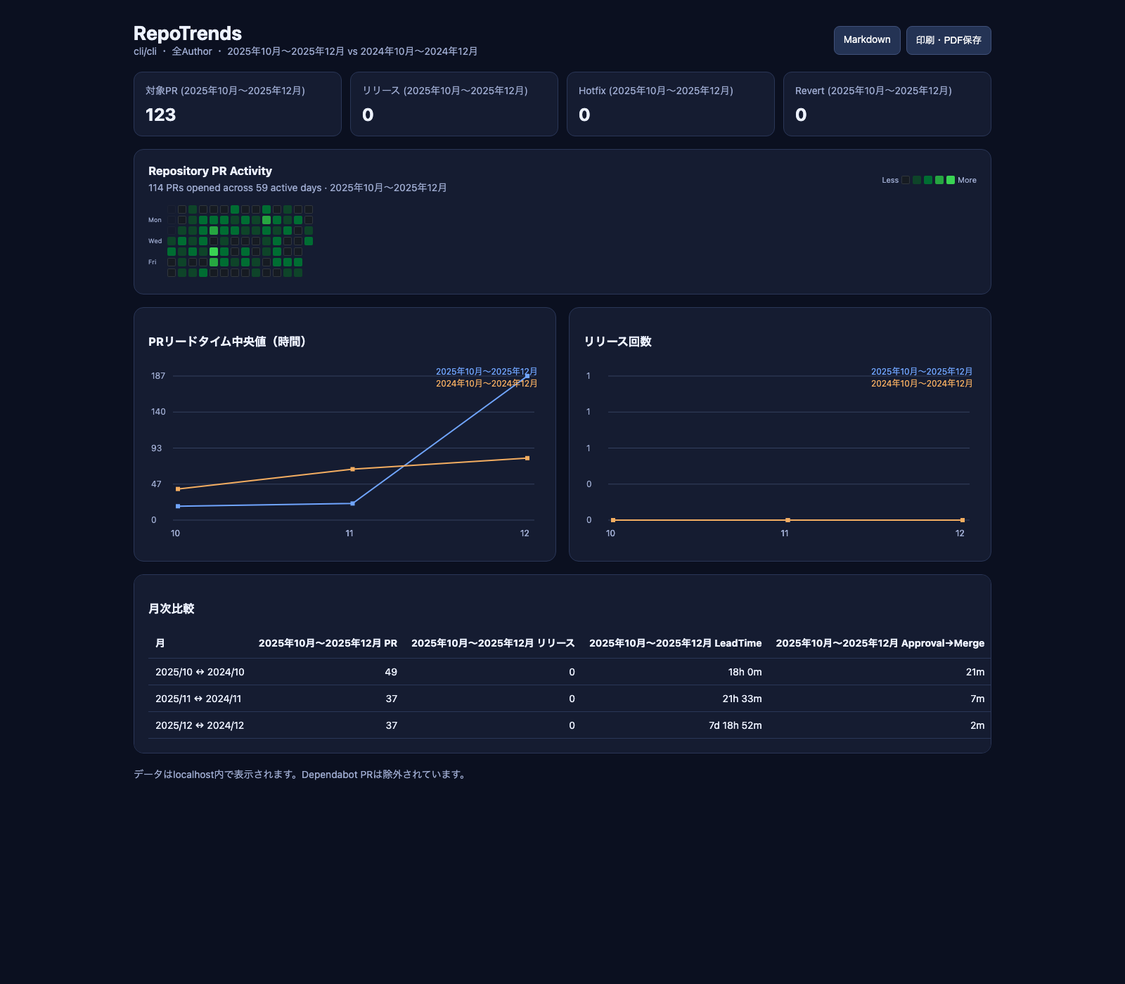
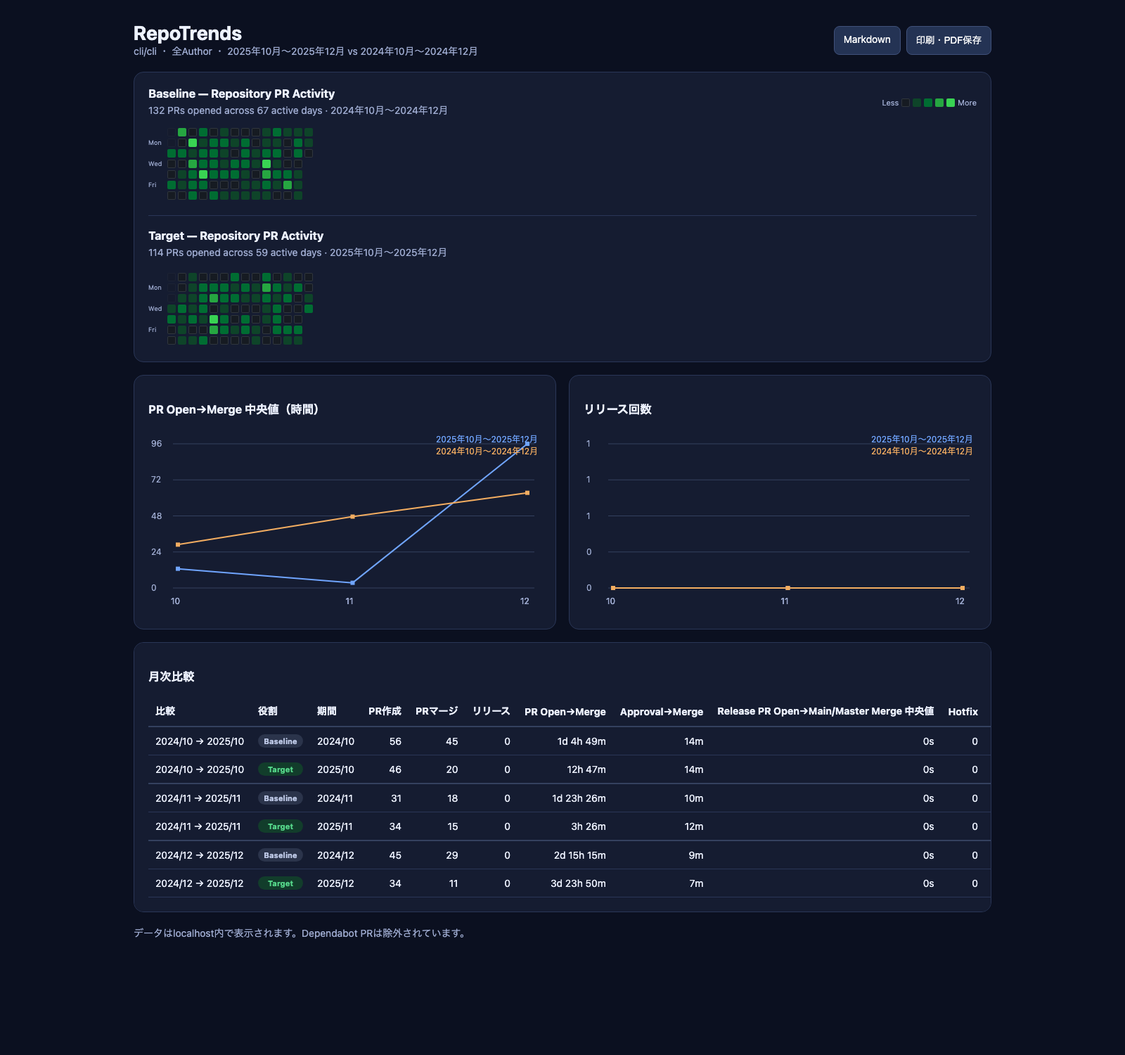
feat: clarify dashboard comparisons and lead-time metrics

diff --git a/cmd/serve.go b/cmd/serve.go
@@ -7,6 +7,7 @@ import (
 	"net/http"
 	"os/exec"
 	"runtime"
+	"slices"
 	"strconv"
 	"strings"
 	"sync"
@@ -40,6 +41,7 @@ type dashboardPlan struct {
 
 type dashboardMetric struct {
 	PRs              int            `json:"prs"`
+	MergedPRs        int            `json:"mergedPrs"`
 	Releases         int            `json:"releases"`
 	LeadTime         string         `json:"leadTime"`
 	LeadTimeHours    float64        `json:"leadTimeHours"`
@@ -67,6 +69,7 @@ type dashboardReport struct {
 	ComparisonYear  int            `json:"comparisonYear,omitempty"`
 	PrimaryLabel    string         `json:"primaryLabel"`
 	ComparisonLabel string         `json:"comparisonLabel,omitempty"`
+	CombineActivity bool           `json:"combineActivity,omitempty"`
 	GeneratedAt     string         `json:"generatedAt"`
 	Rows            []dashboardRow `json:"rows"`
 }
@@ -617,22 +620,79 @@ func collectDashboard(state *dashboardState, targetRepo string, year, comparison
 			state.advance()
 		}
 	}
+	report.CombineActivity = shouldCombineActivityMonths(report.Rows)
 	state.complete(report)
+}
+
+func shouldCombineActivityMonths(rows []dashboardRow) bool {
+	if len(rows) == 0 || rows[0].ComparisonLabel == "" {
+		return false
+	}
+	seen := make(map[int]bool)
+	year := 0
+	for _, row := range rows {
+		for _, label := range []string{row.Label, row.ComparisonLabel} {
+			parts := strings.Split(label, "/")
+			if len(parts) != 2 {
+				return false
+			}
+			labelYear, yearErr := strconv.Atoi(parts[0])
+			labelMonth, monthErr := strconv.Atoi(parts[1])
+			if yearErr != nil || monthErr != nil || labelMonth < 1 || labelMonth > 12 {
+				return false
+			}
+			if year == 0 {
+				year = labelYear
+			} else if labelYear != year {
+				return false
+			}
+			seen[labelYear*12+labelMonth-1] = true
+		}
+	}
+	months := make([]int, 0, len(seen))
+	for month := range seen {
+		months = append(months, month)
+	}
+	slices.Sort(months)
+	for index := 1; index < len(months); index++ {
+		if months[index] != months[index-1]+1 {
+			return false
+		}
+	}
+	return true
 }
 
 func fetchDashboardMetric(targetRepo string, selection dashboardMonthSelection) (dashboardMetric, error) {
 	start := selection.Date
 	end := start.AddDate(0, 1, 0).Add(-time.Nanosecond)
 	if selection.PartialDay > 0 {
-		end = comparableMonthEnd(start.Year(), start.Month(), selection.PartialDay)
+		day := comparableMonthEnd(start.Year(), start.Month(), selection.PartialDay)
+		end = day.Add(24*time.Hour - time.Nanosecond)
 	}
 	prs, err := github.FetchPullRequests(targetRepo, start.Format("2006-01-02"), end.Format("2006-01-02"), author, label, true)
 	if err != nil {
 		return dashboardMetric{}, err
 	}
-	metric := metricFromStats(stats.CalculateStats(CalculateLeadTimes(prs)))
-	metric.DailyPRs = dailyPRCounts(prs, start, end)
+	openedPRs, mergedPRs := dashboardPeriodPRs(prs, start, end)
+	metric := metricFromStats(stats.CalculateStats(CalculateLeadTimes(mergedPRs)))
+	metric.PRs = len(openedPRs)
+	metric.MergedPRs = len(mergedPRs)
+	metric.DailyPRs = dailyPRCounts(openedPRs, start, end)
 	return metric, nil
+}
+
+func dashboardPeriodPRs(prs []github.PullRequest, start, end time.Time) ([]github.PullRequest, []github.PullRequest) {
+	opened := make([]github.PullRequest, 0, len(prs))
+	merged := make([]github.PullRequest, 0, len(prs))
+	for _, pr := range prs {
+		if !pr.CreatedAt.Before(start) && !pr.CreatedAt.After(end) {
+			opened = append(opened, pr)
+		}
+		if pr.Merged && !pr.MergedAt.IsZero() && !pr.MergedAt.Before(start) && !pr.MergedAt.After(end) {
+			merged = append(merged, pr)
+		}
+	}
+	return opened, merged
 }
 
 func dailyPRCounts(prs []github.PullRequest, start, end time.Time) map[string]int {
@@ -697,30 +757,37 @@ func markdownReport(report *dashboardReport) string {
 		fmt.Fprintf(&b, "- Comparison period: %s\n", report.ComparisonLabel)
 	}
 	fmt.Fprintf(&b, "- Generated: %s\n- Dependabot PRs: excluded\n\n", report.GeneratedAt)
-	fmt.Fprintf(&b, "| 月 | %s PR | %s リリース | %s Lead Time | %s Approval→Merge | %s Release→Main | %s Hotfix | %s Revert |", report.PrimaryLabel, report.PrimaryLabel, report.PrimaryLabel, report.PrimaryLabel, report.PrimaryLabel, report.PrimaryLabel, report.PrimaryLabel)
-	if report.ComparisonLabel != "" {
-		fmt.Fprintf(&b, " %s PR | %s リリース | %s Lead Time | %s Approval→Merge | %s Release→Main | %s Hotfix | %s Revert |", report.ComparisonLabel, report.ComparisonLabel, report.ComparisonLabel, report.ComparisonLabel, report.ComparisonLabel, report.ComparisonLabel, report.ComparisonLabel)
-	}
-	b.WriteString("\n|---|" + strings.Repeat("---:|", 7))
-	if report.ComparisonLabel != "" {
-		b.WriteString(strings.Repeat("---:|", 7))
-	}
-	b.WriteString("\n")
+	b.WriteString("| Comparison | Role | Period | PRs Opened | PRs Merged | Releases | PR Open→Merge | Approval→Merge | Median Release PR Open→Main/Master Merge | Hotfix | Revert |\n")
+	b.WriteString("|---|---|---|---:|---:|---:|---:|---:|---:|---:|---:|\n")
 	for _, row := range report.Rows {
-		p := row.Primary
-		rowLabel := row.Label
-		if row.ComparisonLabel != "" {
-			rowLabel += " ↔ " + row.ComparisonLabel
+		for _, entry := range orderedDashboardTableEntries(row) {
+			metric := entry.Metric
+			fmt.Fprintf(&b, "| %s | %s | %s | %d | %d | %d | %s | %s | %s | %d | %d |\n",
+				entry.Comparison, entry.Role, entry.Period, metric.PRs, metric.MergedPRs, metric.Releases, metric.LeadTime,
+				metric.ApprovalToMerge, metric.ReleaseToMain, metric.Hotfixes, metric.Reverts)
 		}
-		fmt.Fprintf(&b, "| %s | %d | %d | %s | %s | %s | %d | %d |", rowLabel, p.PRs, p.Releases, p.LeadTime, p.ApprovalToMerge, p.ReleaseToMain, p.Hotfixes, p.Reverts)
-		if row.Comparison != nil {
-			c := row.Comparison
-			fmt.Fprintf(&b, " %d | %d | %s | %s | %s | %d | %d |", c.PRs, c.Releases, c.LeadTime, c.ApprovalToMerge, c.ReleaseToMain, c.Hotfixes, c.Reverts)
-		}
-		b.WriteString("\n")
 	}
-	b.WriteString("\n> Release→Mainは `release/*` から `main/master` へのPR作成からマージまでの中央値です。\n")
+	b.WriteString("\n> PR Open→Merge is the median `mergedAt - createdAt` for PRs merged in the period.\n")
+	b.WriteString("> Median Release PR Open→Main/Master Merge applies the same calculation only to `release/* → main/master` PRs.\n")
 	return b.String()
+}
+
+type dashboardTableEntry struct {
+	Comparison string
+	Role       string
+	Period     string
+	Metric     dashboardMetric
+}
+
+func orderedDashboardTableEntries(row dashboardRow) []dashboardTableEntry {
+	if row.Comparison == nil || row.ComparisonLabel == "" {
+		return []dashboardTableEntry{{Comparison: row.Label, Role: "Current", Period: row.Label, Metric: row.Primary}}
+	}
+	pair := row.ComparisonLabel + " → " + row.Label
+	return []dashboardTableEntry{
+		{Comparison: pair, Role: "Baseline", Period: row.ComparisonLabel, Metric: *row.Comparison},
+		{Comparison: pair, Role: "Target", Period: row.Label, Metric: row.Primary},
+	}
 }
 
 func openBrowser(url string) {
@@ -739,9 +806,14 @@ func openBrowser(url string) {
 
 const dashboardHTML = `<!doctype html><html lang="ja"><head><meta charset="utf-8"><meta name="viewport" content="width=device-width,initial-scale=1"><title>RepoTrends</title><style>
 .heatmap .day,.legend .day{background:#161b22;box-shadow:inset 0 0 0 1px #30363d}.heatmap .day[data-level="1"],.legend .day[data-level="1"]{background:#0e4429;box-shadow:none}.heatmap .day[data-level="2"],.legend .day[data-level="2"]{background:#006d32;box-shadow:none}.heatmap .day[data-level="3"],.legend .day[data-level="3"]{background:#26a641;box-shadow:none}.heatmap .day[data-level="4"],.legend .day[data-level="4"]{background:#39d353;box-shadow:none}
+table th:nth-child(-n+3),table td:nth-child(-n+3){text-align:left}tr.pair-start td{border-top:2px solid #34415f}.position{display:inline-block;min-width:64px;border-radius:999px;padding:3px 8px;text-align:center;font-size:11px;font-weight:700}.position.baseline{background:#2b344b;color:#bdc8e6}.position.target{background:#123d2b;color:#56d88b}.position.current{background:#243354;color:#9fc1ff}
+.activity-extra{border-top:1px solid #2a3657;margin-top:18px;padding-top:18px}.activity-extra .activity-head{margin-bottom:4px}
 :root{color-scheme:dark;--bg:#0b1020;--panel:#151c31;--line:#2a3657;--text:#edf2ff;--muted:#9eabd0;--a:#70a5ff;--b:#f3ad61}*{box-sizing:border-box}body{margin:0;background:var(--bg);color:var(--text);font:14px system-ui,sans-serif}.wrap{max-width:1280px;margin:auto;padding:30px}header{display:flex;align-items:center;justify-content:space-between;gap:16px}h1{font-size:28px;margin:0}.sub,.muted,footer{color:var(--muted)}.actions{display:flex;gap:8px}button,.button{background:#243354;color:white;border:1px solid #40517a;border-radius:8px;padding:9px 13px;text-decoration:none;cursor:pointer}.panel{background:var(--panel);border:1px solid var(--line);border-radius:14px;padding:20px;margin-top:18px}.progress-head,.activity-head{display:flex;justify-content:space-between;gap:16px;align-items:center}.track{height:16px;background:#27304a;border-radius:10px;overflow:hidden;margin:12px 0}.bar{height:100%;width:0;background:linear-gradient(90deg,var(--a),#7ce3d0);transition:width .35s}.cards{display:grid;grid-template-columns:repeat(auto-fit,minmax(170px,1fr));gap:12px;margin-top:18px}.card{background:var(--panel);border:1px solid var(--line);border-radius:12px;padding:16px}.card b{display:block;font-size:25px;margin-top:8px}.activity-scroll{overflow-x:auto;padding:14px 0 4px}.activity-layout{display:flex;gap:8px;min-width:max-content}.weekdays{display:grid;grid-template-rows:repeat(7,12px);gap:3px;color:var(--muted);font-size:9px;line-height:12px}.heatmap{display:grid;grid-template-rows:repeat(7,12px);grid-auto-flow:column;grid-auto-columns:12px;gap:3px}.day{width:12px;height:12px;border-radius:2px;background:#222b40}.day.outside{opacity:.25}.day[data-level="1"]{background:#0e4429}.day[data-level="2"]{background:#006d32}.day[data-level="3"]{background:#26a641}.day[data-level="4"]{background:#39d353}.legend{display:flex;align-items:center;gap:4px;color:var(--muted);font-size:11px}.legend .day{display:inline-block}.charts{display:grid;grid-template-columns:1fr 1fr;gap:18px}canvas{width:100%;height:260px}.table-wrap{overflow:auto}table{border-collapse:collapse;width:100%;white-space:nowrap}th,td{border-bottom:1px solid var(--line);padding:10px;text-align:right}th:first-child,td:first-child{text-align:left}#dashboard{display:none}.error{color:#ff8e9d}footer{margin:20px 0}@media(max-width:800px){.charts{grid-template-columns:1fr}header,.activity-head{align-items:flex-start;flex-direction:column}}@media print{body{background:white;color:#111}.wrap{max-width:none;padding:0}.panel,.card{background:white;border-color:#bbb}.actions,#progress{display:none!important}.muted,.sub,footer{color:#555}}
 </style></head><body><div class="wrap"><header><div><h1>RepoTrends</h1><div class="sub" id="subtitle">GitHub analytics dashboard</div></div><div class="actions" id="actions" style="display:none"><a class="button" href="/report.md">Markdown</a><button onclick="window.print()">印刷・PDF保存</button></div></header><section class="panel" id="progress"><div class="progress-head"><b id="stage">開始しています</b><span id="percent">0%</span></div><div class="track"><div class="bar" id="bar"></div></div><div class="muted"><span id="count">0 / 0</span> ・経過 <span id="elapsed">0s</span></div><div class="error" id="error"></div></section><main id="dashboard"><section class="cards" id="cards"></section><section class="panel"><div class="activity-head"><div><h3 id="activityTitle" style="margin:0 0 5px">PR Activity</h3><span class="muted" id="activitySummary"></span></div><div class="legend"><span>Less</span><i class="day"></i><i class="day" data-level="1"></i><i class="day" data-level="2"></i><i class="day" data-level="3"></i><i class="day" data-level="4"></i><span>More</span></div></div><div class="activity-scroll"><div class="activity-layout"><div class="weekdays"><span></span><span>Mon</span><span></span><span>Wed</span><span></span><span>Fri</span><span></span></div><div class="heatmap" id="heatmap"></div></div></div></section><section class="charts"><div class="panel"><h3>PRリードタイム中央値（時間）</h3><canvas id="leadChart"></canvas></div><div class="panel"><h3>リリース回数</h3><canvas id="releaseChart"></canvas></div></section><section class="panel table-wrap"><h3>月次比較</h3><table id="table"></table></section></main><footer>データはlocalhost内で表示されます。Dependabot PRは除外されています。</footer></div><script>
-const $=id=>document.getElementById(id);let rendered=false;async function poll(){try{const s=await fetch('/api/status',{cache:'no-store'}).then(r=>r.json()),pct=s.total?Math.round(s.completed/s.total*100):0;$('bar').style.width=pct+'%';$('percent').textContent=pct+'%';$('stage').textContent=s.stage;$('count').textContent=s.completed+' / '+s.total;$('elapsed').textContent=s.elapsed;if(s.error)$('error').textContent=s.error;if(s.status==='complete'&&!rendered){rendered=true;render(s.report)}if(s.status==='running')setTimeout(poll,700)}catch(e){$('error').textContent=e;setTimeout(poll,1500)}}poll();function total(rows,key,side='primary'){return rows.reduce((n,r)=>n+(r[side]?.[key]||0),0)}function render(r){$('progress').style.display='none';$('dashboard').style.display='block';$('actions').style.display='flex';$('subtitle').textContent=r.repository+(r.author?' ・ @'+r.author:' ・ 全Author')+' ・ '+r.primaryLabel+(r.comparisonLabel?' vs '+r.comparisonLabel:'');const cards=[['対象PR',total(r.rows,'prs')],['リリース',total(r.rows,'releases')],['Hotfix',total(r.rows,'hotfixes')],['Revert',total(r.rows,'reverts')]];$('cards').innerHTML=cards.map(x=>'<div class="card"><span class="muted">'+x[0]+' ('+r.primaryLabel+')</span><b>'+x[1]+'</b></div>').join('');heatmap(r);draw('leadChart',r,'leadTimeHours');draw('releaseChart',r,'releases');table(r)}
-function heatmap(r){const daily={};for(const row of r.rows)Object.assign(daily,row.primary.dailyPRs||{});const dates=Object.keys(daily),totalPRs=dates.reduce((n,d)=>n+daily[d],0),max=Math.max(...Object.values(daily),1);$('activityTitle').textContent=r.author?'PR Contributions — @'+r.author:'Repository PR Activity';$('activitySummary').textContent=totalPRs+' PRs opened across '+dates.length+' active days · '+r.primaryLabel;const first=r.rows[0].label.split('/').map(Number),last=r.rows[r.rows.length-1].label.split('/').map(Number),start=new Date(Date.UTC(first[0],first[1]-1,1)),end=new Date(Date.UTC(last[0],last[1],0)),today=new Date(),currentEnd=new Date(Date.UTC(today.getFullYear(),today.getMonth(),today.getDate()));if(end>currentEnd)end.setTime(currentEnd.getTime());const cursor=new Date(start);cursor.setUTCDate(cursor.getUTCDate()-cursor.getUTCDay());const grid=$('heatmap');grid.innerHTML='';for(;cursor<=end;cursor.setUTCDate(cursor.getUTCDate()+1)){const key=cursor.toISOString().slice(0,10),count=daily[key]||0,cell=document.createElement('i');cell.className='day'+(cursor<start?' outside':'');const level=count?Math.max(1,Math.ceil(count/max*4)):0;cell.dataset.level=level;cell.title=key+': '+count+' PR'+(count===1?'':'s');grid.appendChild(cell)}}
-function draw(id,r,key){const c=$(id),d=devicePixelRatio||1,w=c.clientWidth,h=260;c.width=w*d;c.height=h*d;const x=c.getContext('2d');x.scale(d,d);const values=r.rows.flatMap(v=>[v.primary[key],v.comparison?.[key]||0]),max=Math.max(...values,1);x.strokeStyle='#34415f';x.fillStyle='#9eabd0';x.font='12px system-ui';for(let i=0;i<5;i++){const y=20+(h-55)*i/4;x.beginPath();x.moveTo(35,y);x.lineTo(w-10,y);x.stroke();x.fillText(Math.round(max*(4-i)/4),4,y+4)}line(r.rows.map(v=>v.primary[key]),'#70a5ff',r.primaryLabel,18);if(r.comparisonLabel)line(r.rows.map(v=>v.comparison?.[key]||0),'#f3ad61',r.comparisonLabel,35);function line(a,color,label,ly){x.strokeStyle=color;x.lineWidth=2;x.beginPath();a.forEach((v,i)=>{const px=42+(w-62)*(i/Math.max(a.length-1,1)),py=20+(h-55)*(1-v/max);i?x.lineTo(px,py):x.moveTo(px,py);x.fillStyle=color;x.fillRect(px-3,py-3,6,6);x.fillStyle='#9eabd0';x.fillText(r.rows[i].label.slice(5),px-10,h-12)});x.stroke();x.fillStyle=color;x.fillText(label,w-150,ly)}}function table(r){let h='<thead><tr><th>月</th>'+head(r.primaryLabel);if(r.comparisonLabel)h+=head(r.comparisonLabel);h+='</tr></thead><tbody>';for(const row of r.rows){const label=row.comparisonLabel?row.label+' ↔ '+row.comparisonLabel:row.label;h+='<tr><td>'+label+'</td>'+cells(row.primary);if(row.comparison)h+=cells(row.comparison);h+='</tr>'}h+='</tbody>';$('table').innerHTML=h}function head(y){return '<th>'+y+' PR</th><th>'+y+' リリース</th><th>'+y+' LeadTime</th><th>'+y+' Approval→Merge</th><th>'+y+' Release→Main</th><th>'+y+' Hotfix</th><th>'+y+' Revert</th>'}function cells(v){return '<td>'+v.prs+'</td><td>'+v.releases+'</td><td>'+v.leadTime+'</td><td>'+v.approvalToMerge+'</td><td>'+v.releaseToMain+'</td><td>'+v.hotfixes+'</td><td>'+v.reverts+'</td>'}
+const $=id=>document.getElementById(id);let rendered=false;async function poll(){try{const s=await fetch('/api/status',{cache:'no-store'}).then(r=>r.json()),pct=s.total?Math.round(s.completed/s.total*100):0;$('bar').style.width=pct+'%';$('percent').textContent=pct+'%';$('stage').textContent=s.stage;$('count').textContent=s.completed+' / '+s.total;$('elapsed').textContent=s.elapsed;if(s.error)$('error').textContent=s.error;if(s.status==='complete'&&!rendered){rendered=true;render(s.report)}if(s.status==='running')setTimeout(poll,700)}catch(e){$('error').textContent=e;setTimeout(poll,1500)}}poll();function total(rows,key,side='primary'){return rows.reduce((n,r)=>n+(r[side]?.[key]||0),0)}function render(r){$('progress').style.display='none';$('dashboard').style.display='block';$('actions').style.display='flex';$('subtitle').textContent=r.repository+(r.author?' ・ @'+r.author:' ・ 全Author')+' ・ '+r.primaryLabel+(r.comparisonLabel?' vs '+r.comparisonLabel:'');const cards=[['PRs Opened',total(r.rows,'prs')],['PRs Merged',total(r.rows,'mergedPrs')],['Releases',total(r.rows,'releases')],['Hotfix',total(r.rows,'hotfixes')],['Revert',total(r.rows,'reverts')]];$('cards').style.display=r.comparisonLabel?'none':'grid';$('cards').innerHTML=r.comparisonLabel?'':cards.map(x=>'<div class="card"><span class="muted">'+x[0]+' ('+r.primaryLabel+')</span><b>'+x[1]+'</b></div>').join('');document.querySelector('.charts .panel h3').textContent='PR Open→Merge 中央値（時間）';renderHeatmaps(r);draw('leadChart',r,'leadTimeHours');draw('releaseChart',r,'releases');table(r)}
+function renderHeatmaps(r){const baseTitle=r.author?'PR Contributions — @'+r.author:'Repository PR Activity',primary=activitySeries(r.rows,'primary',r.primaryLabel),comparison=r.comparisonLabel?activitySeries(r.rows,'comparison',r.comparisonLabel):null,labels=r.rows.flatMap(row=>row.comparisonLabel?[row.label,row.comparisonLabel]:[row.label]),indexes=[...new Set(labels.map(monthIndex))].sort((a,b)=>a-b);let series;if(!comparison){series=[{...primary,title:baseTitle}]}else if(r.combineActivity){const first=monthLabel(indexes[0]),last=monthLabel(indexes[indexes.length-1]);series=[{daily:Object.assign({},comparison.daily,primary.daily),first,last,label:first+' → '+last,title:'Continuous — '+baseTitle}]}else{series=[{...comparison,title:'Baseline — '+baseTitle},{...primary,title:'Target — '+baseTitle}]}document.querySelectorAll('.activity-extra').forEach(node=>node.remove());series.forEach((item,index)=>{if(index===0){renderActivityMap($('activityTitle'),$('activitySummary'),$('heatmap'),item);return}const extra=document.createElement('div');extra.className='activity-extra';extra.innerHTML='<div class="activity-head"><div><h3 style="margin:0 0 5px"></h3><span class="muted"></span></div></div><div class="activity-scroll"><div class="activity-layout"><div class="weekdays"><span></span><span>Mon</span><span></span><span>Wed</span><span></span><span>Fri</span><span></span></div><div class="heatmap"></div></div></div>';$('activityTitle').closest('.panel').appendChild(extra);renderActivityMap(extra.querySelector('h3'),extra.querySelector('.muted'),extra.querySelector('.heatmap'),item)})}
+function activitySeries(rows,side,label){const daily={};for(const row of rows)if(row[side])Object.assign(daily,row[side].dailyPRs||{});const sideLabels=rows.map(row=>side==='primary'?row.label:row.comparisonLabel);return{daily,first:sideLabels[0],last:sideLabels[sideLabels.length-1],label,title:label}}
+function monthIndex(label){const parts=label.split('/').map(Number);return parts[0]*12+parts[1]-1}function monthLabel(index){return Math.floor(index/12)+'/'+String(index%12+1).padStart(2,'0')}
+function renderActivityMap(title,summary,grid,series){const dates=Object.keys(series.daily),totalPRs=dates.reduce((n,d)=>n+series.daily[d],0),max=Math.max(...Object.values(series.daily),1);title.textContent=series.title;summary.textContent=totalPRs+' PRs opened across '+dates.length+' active days · '+series.label;const first=series.first.split('/').map(Number),last=series.last.split('/').map(Number),start=new Date(Date.UTC(first[0],first[1]-1,1)),end=new Date(Date.UTC(last[0],last[1],0)),today=new Date(),currentEnd=new Date(Date.UTC(today.getFullYear(),today.getMonth(),today.getDate()));if(end>currentEnd)end.setTime(currentEnd.getTime());const cursor=new Date(start);cursor.setUTCDate(cursor.getUTCDate()-cursor.getUTCDay());grid.innerHTML='';for(;cursor<=end;cursor.setUTCDate(cursor.getUTCDate()+1)){const key=cursor.toISOString().slice(0,10),count=series.daily[key]||0,cell=document.createElement('i');cell.className='day'+(cursor<start?' outside':'');const level=count?Math.max(1,Math.ceil(count/max*4)):0;cell.dataset.level=level;cell.title=key+': '+count+' PR'+(count===1?'':'s');grid.appendChild(cell)}}
+function draw(id,r,key){const c=$(id),d=devicePixelRatio||1,w=c.clientWidth,h=260;c.width=w*d;c.height=h*d;const x=c.getContext('2d');x.scale(d,d);const values=r.rows.flatMap(v=>[v.primary[key],v.comparison?.[key]||0]),max=Math.max(...values,1);x.strokeStyle='#34415f';x.fillStyle='#9eabd0';x.font='12px system-ui';for(let i=0;i<5;i++){const y=20+(h-55)*i/4;x.beginPath();x.moveTo(35,y);x.lineTo(w-10,y);x.stroke();x.fillText(Math.round(max*(4-i)/4),4,y+4)}line(r.rows.map(v=>v.primary[key]),'#70a5ff',r.primaryLabel,18);if(r.comparisonLabel)line(r.rows.map(v=>v.comparison?.[key]||0),'#f3ad61',r.comparisonLabel,35);function line(a,color,label,ly){x.strokeStyle=color;x.lineWidth=2;x.beginPath();a.forEach((v,i)=>{const px=42+(w-62)*(i/Math.max(a.length-1,1)),py=20+(h-55)*(1-v/max);i?x.lineTo(px,py):x.moveTo(px,py);x.fillStyle=color;x.fillRect(px-3,py-3,6,6);x.fillStyle='#9eabd0';x.fillText(r.rows[i].label.slice(5),px-10,h-12)});x.stroke();x.fillStyle=color;x.fillText(label,w-150,ly)}}function table(r){let h='<thead><tr><th>比較</th><th>役割</th><th>期間</th><th>PR作成</th><th>PRマージ</th><th>リリース</th><th>PR Open→Merge</th><th>Approval→Merge</th><th>Release PR Open→Main/Master Merge 中央値</th><th>Hotfix</th><th>Revert</th></tr></thead><tbody>';for(const row of r.rows){if(!row.comparison){h+=comparisonRow(row.label,'Current',row.label,row.primary,'pair-start');continue}const pair=row.comparisonLabel+' → '+row.label;h+=comparisonRow(pair,'Baseline',row.comparisonLabel,row.comparison,'pair-start baseline');h+=comparisonRow(pair,'Target',row.label,row.primary,'target')}h+='</tbody>';$('table').innerHTML=h}function comparisonRow(pair,role,period,v,cls){return '<tr class="'+cls+'"><td>'+pair+'</td><td><span class="position '+role.toLowerCase()+'">'+role+'</span></td><td>'+period+'</td>'+cells(v)+'</tr>'}function cells(v){return '<td>'+v.prs+'</td><td>'+v.mergedPrs+'</td><td>'+v.releases+'</td><td>'+v.leadTime+'</td><td>'+v.approvalToMerge+'</td><td>'+v.releaseToMain+'</td><td>'+v.hotfixes+'</td><td>'+v.reverts+'</td>'}
 </script></body></html>`

diff --git a/cmd/serve_test.go b/cmd/serve_test.go
@@ -12,12 +12,31 @@ import (
 )
 
 func testDashboardReport() *dashboardReport {
-	comparison := dashboardMetric{PRs: 8, Releases: 1, LeadTime: "3h 0m"}
+	comparison := dashboardMetric{PRs: 8, MergedPRs: 6, Releases: 1, LeadTime: "3h 0m"}
 	return &dashboardReport{
 		Repository: "owner/repo", Author: "octocat", Year: 2026, ComparisonYear: 2025,
 		PrimaryLabel: "2026", ComparisonLabel: "2025",
 		GeneratedAt: "2026-08-13T00:00:00Z",
-		Rows:        []dashboardRow{{Month: 1, Label: "2026/01", ComparisonLabel: "2025/01", Primary: dashboardMetric{PRs: 10, Releases: 2, LeadTime: "2h 0m"}, Comparison: &comparison}},
+		Rows:        []dashboardRow{{Month: 1, Label: "2026/01", ComparisonLabel: "2025/01", Primary: dashboardMetric{PRs: 10, MergedPRs: 9, Releases: 2, LeadTime: "2h 0m"}, Comparison: &comparison}},
+	}
+}
+
+func TestDashboardPeriodPRsSeparatesOpenedAndMergedCohorts(t *testing.T) {
+	start := time.Date(2026, time.August, 1, 0, 0, 0, 0, time.UTC)
+	end := time.Date(2026, time.August, 31, 23, 59, 59, 0, time.UTC)
+	prs := []github.PullRequest{
+		{Number: 1, CreatedAt: time.Date(2026, time.August, 2, 0, 0, 0, 0, time.UTC), Merged: true, MergedAt: time.Date(2026, time.September, 1, 0, 0, 0, 0, time.UTC)},
+		{Number: 2, CreatedAt: time.Date(2026, time.July, 20, 0, 0, 0, 0, time.UTC), Merged: true, MergedAt: time.Date(2026, time.August, 3, 0, 0, 0, 0, time.UTC)},
+		{Number: 3, CreatedAt: time.Date(2026, time.August, 4, 0, 0, 0, 0, time.UTC), Merged: true, MergedAt: time.Date(2026, time.August, 5, 0, 0, 0, 0, time.UTC)},
+		{Number: 4, CreatedAt: time.Date(2026, time.July, 1, 0, 0, 0, 0, time.UTC), Merged: true, MergedAt: time.Date(2026, time.July, 2, 0, 0, 0, 0, time.UTC)},
+	}
+
+	opened, merged := dashboardPeriodPRs(prs, start, end)
+	if len(opened) != 2 || opened[0].Number != 1 || opened[1].Number != 3 {
+		t.Fatalf("opened PRs = %#v, want [1 3]", opened)
+	}
+	if len(merged) != 2 || merged[0].Number != 2 || merged[1].Number != 3 {
+		t.Fatalf("merged PRs = %#v, want [2 3]", merged)
 	}
 }
 
@@ -111,10 +130,71 @@ func TestDashboardStatusAndMarkdown(t *testing.T) {
 	}
 
 	markdown := markdownReport(report)
-	for _, expected := range []string{"# RepoTrends Report", "`owner/repo`", "`@octocat`", "2026", "2025", "2h 0m"} {
+	for _, expected := range []string{"# RepoTrends Report", "`owner/repo`", "`@octocat`", "2025/01 → 2026/01", "Baseline", "Target", "2h 0m", "PRs Opened", "PRs Merged", "Median Release PR Open→Main/Master Merge"} {
 		if !strings.Contains(markdown, expected) {
 			t.Fatalf("markdown report does not contain %q", expected)
 		}
+	}
+	baseline := strings.Index(markdown, "| 2025/01 → 2026/01 | Baseline | 2025/01")
+	target := strings.Index(markdown, "| 2025/01 → 2026/01 | Target | 2026/01")
+	if baseline < 0 || target < 0 || baseline >= target {
+		t.Fatalf("markdown rows are not ordered Baseline then Target:\n%s", markdown)
+	}
+}
+
+func TestOrderedDashboardTableEntriesUsesComparisonAsBaseline(t *testing.T) {
+	comparison := dashboardMetric{PRs: 20}
+	row := dashboardRow{
+		Label: "2024/08", Primary: dashboardMetric{PRs: 10},
+		ComparisonLabel: "2026/08", Comparison: &comparison,
+	}
+	entries := orderedDashboardTableEntries(row)
+	if len(entries) != 2 {
+		t.Fatalf("entries = %d, want 2", len(entries))
+	}
+	if entries[0].Role != "Baseline" || entries[0].Period != "2026/08" || entries[0].Metric.PRs != 20 {
+		t.Fatalf("baseline entry = %#v", entries[0])
+	}
+	if entries[1].Role != "Target" || entries[1].Period != "2024/08" || entries[1].Metric.PRs != 10 {
+		t.Fatalf("target entry = %#v", entries[1])
+	}
+}
+
+func TestShouldCombineActivityMonths(t *testing.T) {
+	comparison := dashboardMetric{}
+	tests := []struct {
+		name string
+		rows []dashboardRow
+		want bool
+	}{
+		{
+			name: "same year contiguous previous-month comparison",
+			rows: []dashboardRow{
+				{Label: "2026/06", ComparisonLabel: "2026/05", Comparison: &comparison},
+				{Label: "2026/07", ComparisonLabel: "2026/06", Comparison: &comparison},
+				{Label: "2026/08", ComparisonLabel: "2026/07", Comparison: &comparison},
+			},
+			want: true,
+		},
+		{
+			name: "different years",
+			rows: []dashboardRow{{Label: "2026/08", ComparisonLabel: "2025/08", Comparison: &comparison}},
+			want: false,
+		},
+		{
+			name: "same year with a gap",
+			rows: []dashboardRow{
+				{Label: "2026/08", ComparisonLabel: "2026/06", Comparison: &comparison},
+			},
+			want: false,
+		},
+	}
+	for _, test := range tests {
+		t.Run(test.name, func(t *testing.T) {
+			if got := shouldCombineActivityMonths(test.rows); got != test.want {
+				t.Fatalf("shouldCombineActivityMonths() = %v, want %v", got, test.want)
+			}
+		})
 	}
 }
 
@@ -125,6 +205,22 @@ func TestMarkdownUnavailableWhileRunning(t *testing.T) {
 	dashboardMux(state).ServeHTTP(recorder, request)
 	if recorder.Code != http.StatusServiceUnavailable {
 		t.Fatalf("status = %d, want %d", recorder.Code, http.StatusServiceUnavailable)
+	}
+}
+
+func TestDashboardComparisonPresentation(t *testing.T) {
+	for _, expected := range []string{
+		"r.comparisonLabel?'none':'grid'",
+		"function renderHeatmaps(r)",
+		"Continuous — ",
+		"Baseline — ",
+		"Target — ",
+		"PR Open→Merge",
+		"Release PR Open→Main/Master Merge 中央値",
+	} {
+		if !strings.Contains(dashboardHTML, expected) {
+			t.Fatalf("dashboard HTML does not contain %q", expected)
+		}
 	}
 }
 

diff --git a/README.md b/README.md
@@ -163,11 +163,27 @@ This view answers a few questions at a glance:
 - Was activity steady, or concentrated on a small number of days?
 - Did release, hotfix, or revert activity change?
 
+#### Metric definitions
+
+- **PRs Opened** counts PRs whose `createdAt` is in the displayed period.
+- **PRs Merged** counts PRs whose `mergedAt` is in the displayed period.
+- **PR Open→Merge** is the median time from `createdAt` to `mergedAt` for
+  PRs merged in the displayed period.
+- **Median Release PR Open→Main/Master Merge** uses the same calculation, but only
+  for PRs whose head matches the configured release prefix (default:
+  `release/`) and whose base is `main` or `master`.
+
+The release metric starts when the release PR is opened. It is not the time
+since the release branch was created, its first commit, deployment, or
+production availability.
+
 The heatmap follows GitHub's dark contribution colors. With `--author`, it
 shows PRs opened by that account. Without `--author`, it shows repository-wide
-PR activity. Color intensity is calculated from the daily PR count in the
-selected primary period; comparison-period values remain in the charts and
-table.
+PR activity. Color intensity is calculated from daily PR counts. Cross-year
+comparisons render one heatmap per period; contiguous same-year comparisons
+are merged into one continuous heatmap without double-counting overlapping
+months. Summary cards are hidden in comparison mode so that primary-only totals
+are not mistaken for comparison results.
 
 With no selection flags, RepoTrends interactively asks for the repository,
 year or month mode, target period, comparison method, optional PR author, and
@@ -257,6 +273,9 @@ MIT License - see [LICENSE](LICENSE) for details.
 
 - Inspired by [peco](https://github.com/peco/peco) for terminal UX
 - Built on [GitHub CLI](https://cli.github.com/) for robust GitHub API access
+- The GitHub CLI extension structure and distribution approach were informed
+  by [gh-pr-graph](https://github.com/orangain/gh-pr-graph), created by
+  [@orangain](https://github.com/orangain)
 - Thanks to the Go community for excellent CLI libraries
 
 ---
